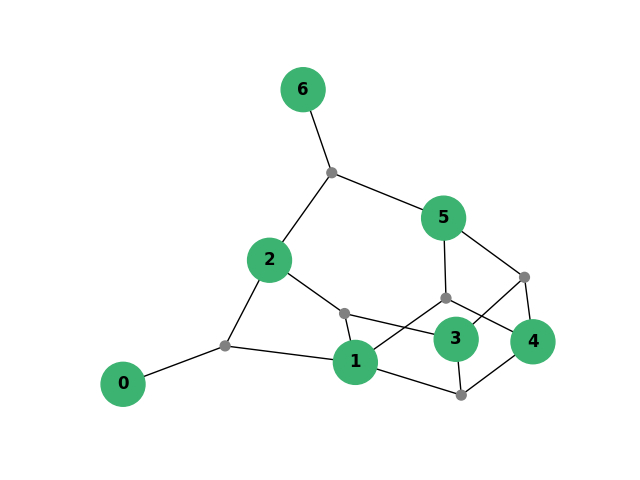
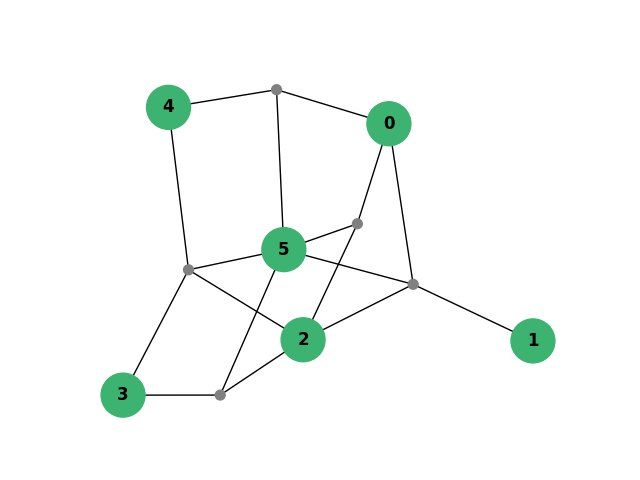
更新超图可视化结果

diff --git a/hw3_STS/hypergraph.py b/hw3_STS/hypergraph.py
@@ -1,14 +1,14 @@
 # Author: Xuechao Zhang
 # Date: May 9th, 2022
-# Description: 超图可视化，star expansion 形式
+# Description: 超图可视化, star expansion 形式
 
 import networkx as nx
 import matplotlib.pyplot as plt
 import random
 
-def draw_star_expansion_graph(graph):
+def draw_hypergraph(graph):
     """
-    根据名称区分节点类型"node""edge", 绘制超图
+    根据名称"node0""node1""edge0""edge1"区分节点类型, 实现超图可视化
     """
     fig, ax = plt.subplots()
     colors = ["mediumseagreen" if node[:4]=='node' else "grey"
@@ -22,22 +22,22 @@ def draw_star_expansion_graph(graph):
         node_size=sizes,
         labels=label_dict,
         font_weight='bold')
-        
+    plt.show()
+    
     return plt
 
 if __name__ == '__main__':
     random.seed(777)
-
+    
     star_expansion_graph = nx.Graph()               # 转换成 star expansion 形式
     node_num = 6
-    edge_num = 4
+    edge_num = 5
     for i in range(node_num):
         star_expansion_graph.add_node('node'+str(i))
     for i in range(edge_num):                       # 添加超边
         star_expansion_graph.add_node('edge'+str(i))
-        for j in random.sample(range(node_num), 3): # 连接超边和顶点
+        for j in random.sample(range(node_num), random.choice([3, 3, 4])): # 连接超边和顶点
             star_expansion_graph.add_edge('edge'+str(i),
                                     'node'+str(j))
 
-    draw_star_expansion_graph(star_expansion_graph)
-    plt.show()
+    draw_hypergraph(star_expansion_graph)    
